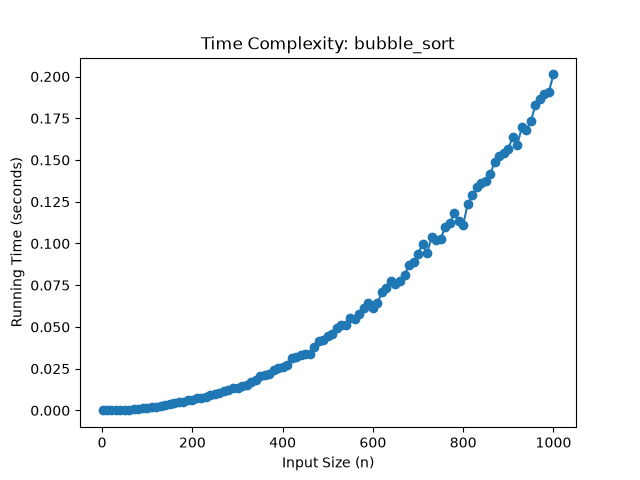
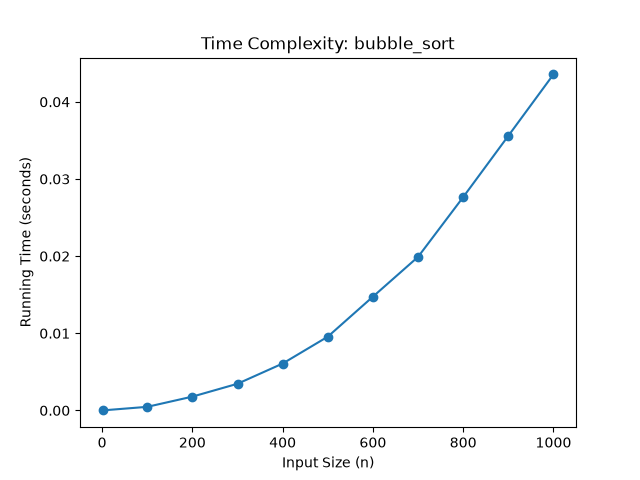
Added JWT authentication to save_analysis endpoint

diff --git a/app.py b/app.py
@@ -8,10 +8,13 @@ import matplotlib
 matplotlib.use("Agg")  # non-interactive backend, safe for a server process
 import matplotlib.pyplot as plt
 
+from datetime import timedelta
+
 from flask import Flask, request, jsonify
+from flask_jwt_extended import JWTManager, create_access_token, jwt_required, get_jwt_identity
 
 from algorithms import ALGORITHMS
-from models import db, Analysis
+from models import db, Analysis, User
 
 app = Flask(__name__)
 
@@ -25,6 +28,30 @@ os.makedirs(STATIC_DIR, exist_ok=True)
 app.config["SQLALCHEMY_DATABASE_URI"] = f"sqlite:///{os.path.join(BASE_DIR, 'analysis.db')}"
 app.config["SQLALCHEMY_TRACK_MODIFICATIONS"] = False
 db.init_app(app)
+
+# JWT setup: token must arrive in the Authorization header as
+# "Bearer <token>" -- query-string tokens are NOT accepted.
+app.config["JWT_SECRET_KEY"] = os.environ.get("JWT_SECRET_KEY", "change-me-in-production-use-a-32-byte-key")
+app.config["JWT_TOKEN_LOCATION"] = ["headers"]
+app.config["JWT_HEADER_NAME"] = "Authorization"
+app.config["JWT_HEADER_TYPE"] = "Bearer"
+app.config["JWT_ACCESS_TOKEN_EXPIRES"] = timedelta(hours=1)
+jwt = JWTManager(app)
+
+
+@jwt.unauthorized_loader
+def missing_token(reason):
+    return jsonify({"error": "I don't know you"}), 401
+
+
+@jwt.invalid_token_loader
+def invalid_token(reason):
+    return jsonify({"error": "Bye"}), 401
+
+
+@jwt.expired_token_loader
+def expired_token(jwt_header, jwt_payload):
+    return jsonify({"error": "Bye"}), 401
 
 with app.app_context():
     db.create_all()
@@ -110,7 +137,34 @@ def analyze():
     })
 
 
+@app.route("/register", methods=["POST"])
+def register():
+    data = request.get_json(silent=True) or {}
+    username = data.get("username")
+    password = data.get("password")
+    if not username or not password:
+        return jsonify({"error": "username and password are required"}), 400
+    if User.query.filter_by(username=username).first():
+        return jsonify({"error": "username already taken"}), 409
+    user = User(username=username)
+    user.set_password(password)
+    db.session.add(user)
+    db.session.commit()
+    return jsonify({"message": "User registered successfully"}), 201
+
+
+@app.route("/login", methods=["POST"])
+def login():
+    data = request.get_json(silent=True) or {}
+    user = User.query.filter_by(username=data.get("username")).first()
+    if not user or not user.check_password(data.get("password", "")):
+        return jsonify({"error": "Invalid credentials"}), 401
+    token = create_access_token(identity=str(user.id))
+    return jsonify({"access_token": token}), 200
+
+
 @app.route("/save_analysis", methods=["POST"])
+@jwt_required()
 def save_analysis():
     algo = request.args.get("algo")
     step = request.args.get("step", type=int)
@@ -169,7 +223,8 @@ def index():
     return jsonify({
         "message": "Time complexity visualizer API",
         "usage": "/analyze?algo=<name>&step=<int>&n_max=<int>",
-        "save_usage": "POST /save_analysis?algo=<name>&step=<int>&n_max=<int>",
+        "auth_usage": "POST /register and POST /login (JSON: username, password) -> access_token",
+        "save_usage": "POST /save_analysis?algo=<name>&step=<int>&n_max=<int> (header: Authorization: Bearer <token>)",
         "list_usage": "/analyses",
         "supported_algorithms": sorted(ALGORITHMS.keys())
     })

diff --git a/models.py b/models.py
@@ -6,6 +6,7 @@ import json
 from datetime import datetime, timezone
 
 from flask_sqlalchemy import SQLAlchemy
+from werkzeug.security import generate_password_hash, check_password_hash
 
 db = SQLAlchemy()
 
@@ -37,3 +38,17 @@ class Analysis(db.Model):
             "image_path": self.image_path,
             "created_at": self.created_at.isoformat(),
         }
+
+
+class User(db.Model):
+    """A registered user who may log in and save analyses."""
+
+    id = db.Column(db.Integer, primary_key=True)
+    username = db.Column(db.String(80), unique=True, nullable=False)
+    password_hash = db.Column(db.String(255), nullable=False)
+
+    def set_password(self, password):
+        self.password_hash = generate_password_hash(password)
+
+    def check_password(self, password):
+        return check_password_hash(self.password_hash, password)
